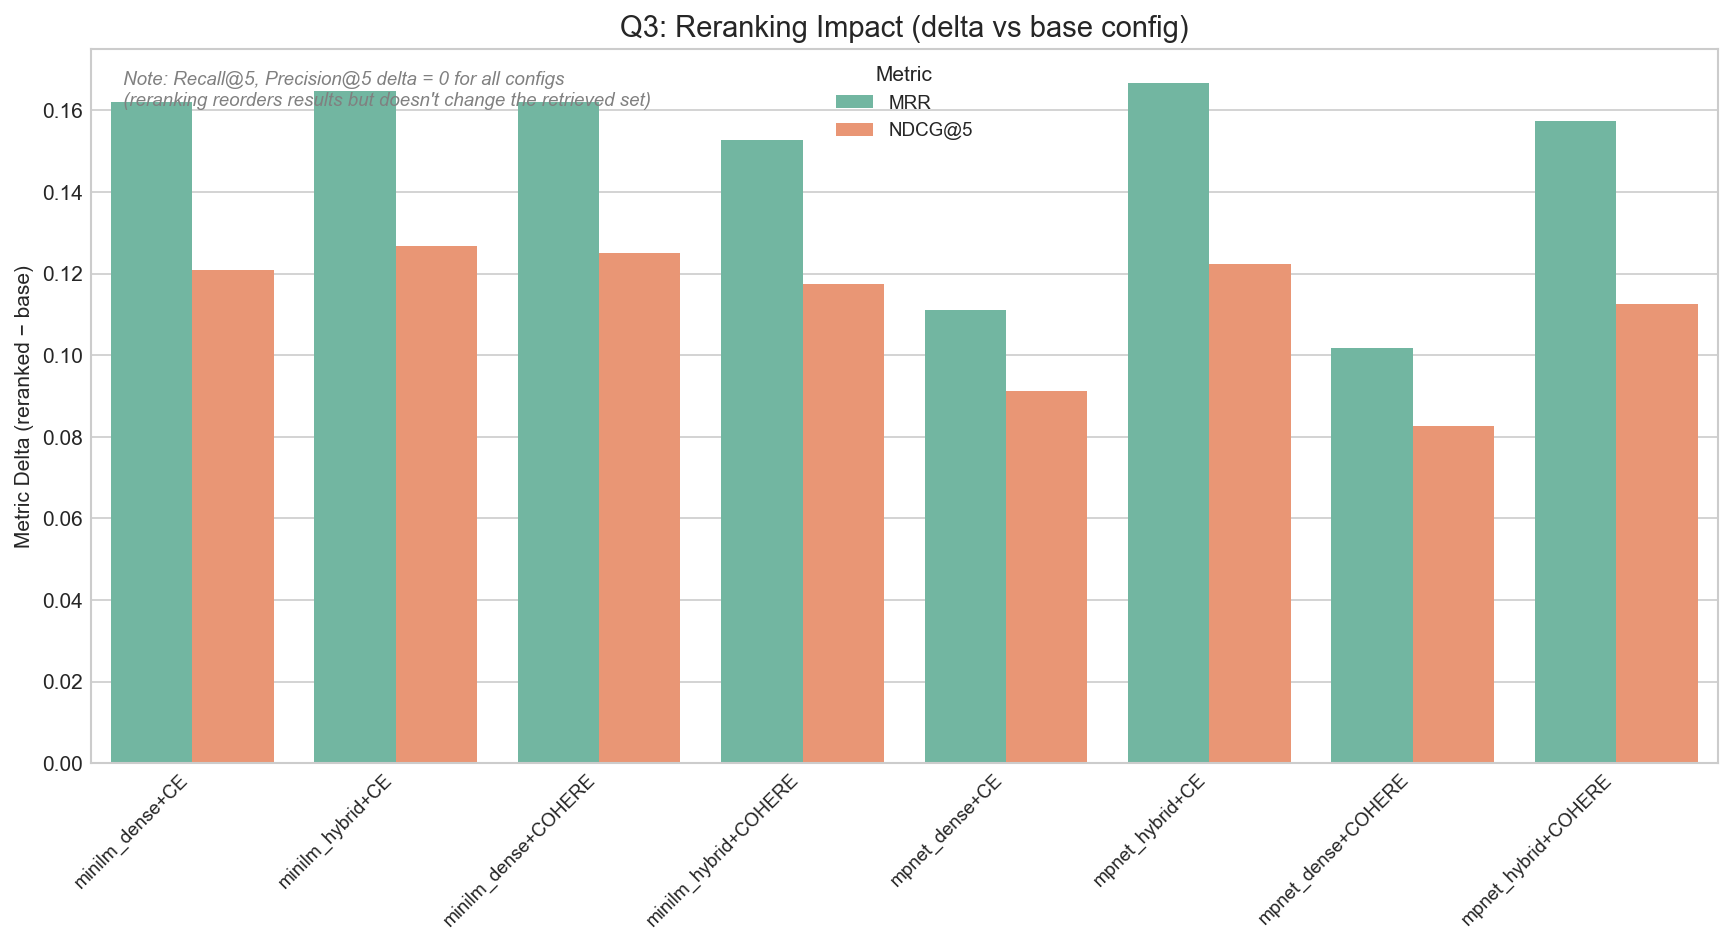
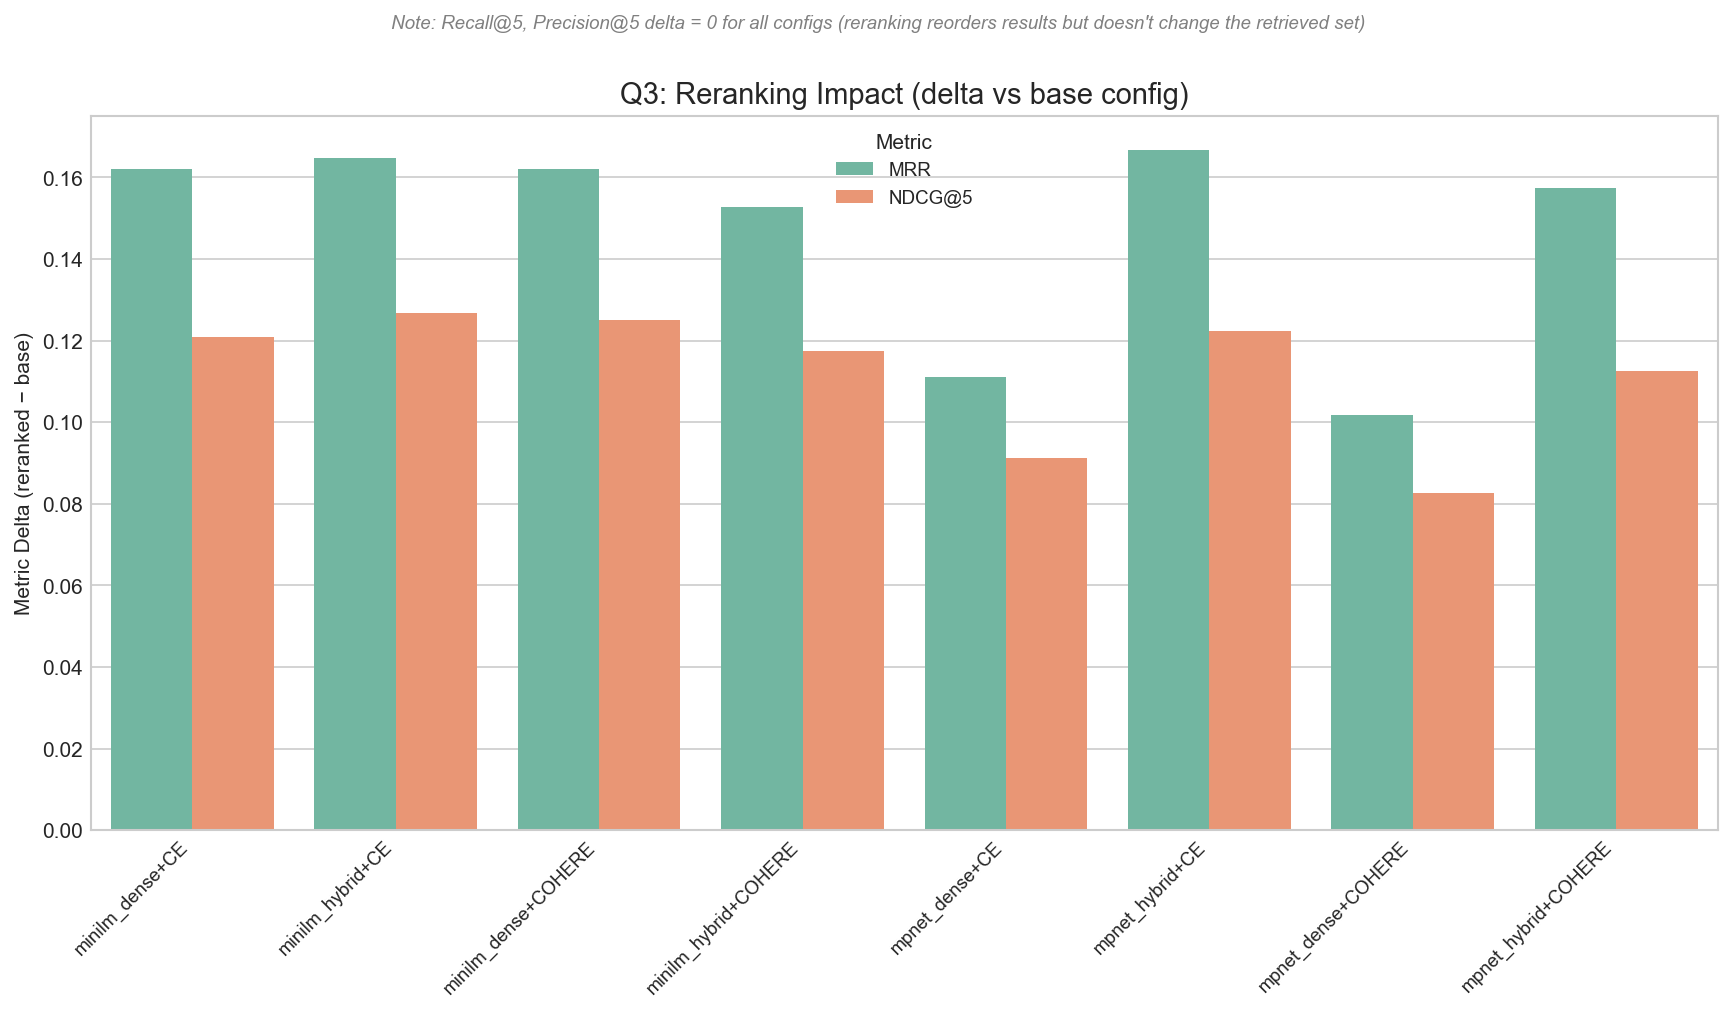
fix(p5): move reranking chart annotation above title to avoid bar overlap

diff --git a/src/visualization.py b/src/visualization.py
@@ -321,11 +321,11 @@ def plot_reranking_comparison(df: pd.DataFrame, output_dir: Path) -> Path:
             label.set_fontsize(9)
         ax.legend(title="Metric", fontsize=9)
         if zero_metrics:
-            ax.annotate(
-                f"Note: {', '.join(zero_metrics)} delta = 0 for all configs\n"
+            fig.text(
+                0.5, 0.96,
+                f"Note: {', '.join(zero_metrics)} delta = 0 for all configs "
                 "(reranking reorders results but doesn't change the retrieved set)",
-                xy=(0.02, 0.97), xycoords="axes fraction", fontsize=9,
-                va="top", ha="left", style="italic", color="gray",
+                fontsize=9, ha="center", va="bottom", style="italic", color="gray",
             )
         fig.subplots_adjust(bottom=0.20)
         return _save_fig(fig, output_dir, "reranking_comparison")
